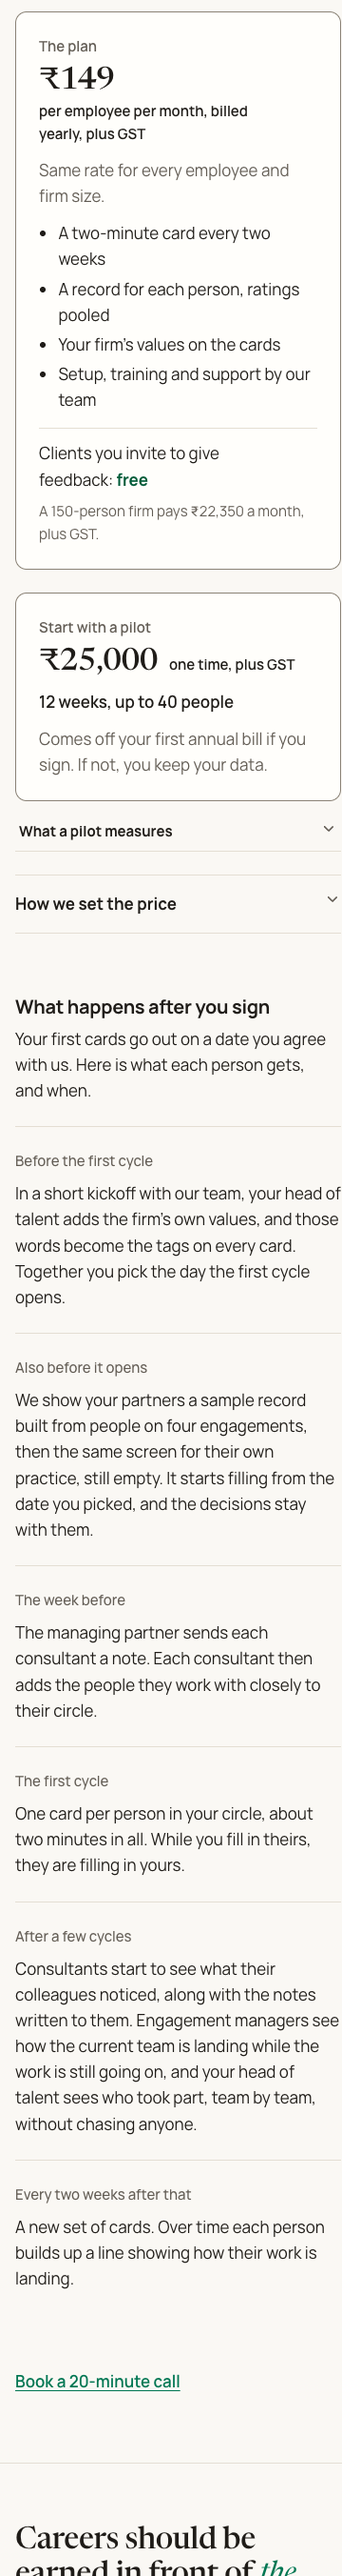
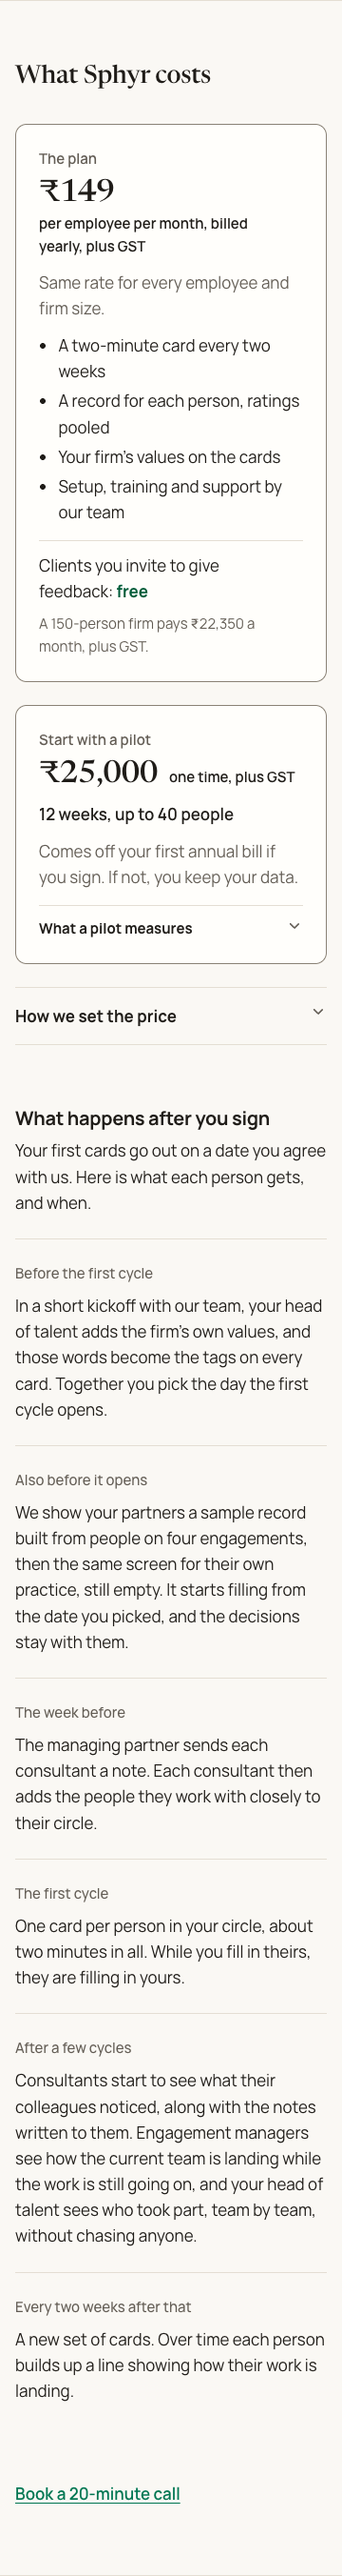
Make plan and pilot cards equal height, scorecard toggle inside pilot card

diff --git a/site/css/home.css b/site/css/home.css
@@ -70,28 +70,31 @@
 .notdo h3, .faq-head { margin-bottom: var(--s-4); }
 .faq-head { margin-top: var(--s-8); }
 
-/* Pricing: two small, calm cards (plan, then pilot), stacked on phones. */
-.price-pair { display: grid; grid-template-columns: 1fr 1fr; gap: var(--s-5); max-width: 880px; margin-top: var(--s-6); align-items: start; }
+/* Pricing: two small, calm cards of equal height (plan, then pilot), stacked on phones. Each card is a flex
+   column; its last block (the free line and example, or the scorecard toggle) sits at the bottom. */
+.price-pair { display: grid; grid-template-columns: 1fr 1fr; gap: var(--s-5); max-width: 880px; margin-top: var(--s-6); align-items: stretch; }
 @media (max-width: 760px) { .price-pair { grid-template-columns: 1fr; } }
-.price-pair .term { padding: var(--s-5); }
+.price-pair .term { display: flex; flex-direction: column; padding: var(--s-5); }
 .price-pair .term p { margin-top: var(--s-3); }
 .term .price { margin-top: var(--s-2); display: flex; flex-wrap: wrap; align-items: baseline; gap: var(--s-1) var(--s-3); }
 .term .amount { font-family: var(--font-display); font-weight: 500; line-height: 1; letter-spacing: -0.02em; font-variant-numeric: tabular-nums; font-size: clamp(2rem, 1.7rem + 1vw, 2.5rem); }
 .term .per { font-size: var(--fs-small); font-weight: 600; max-width: 24ch; }
 .incl { margin: var(--s-3) 0 0; padding-left: 1.2em; }
 .incl li + li { margin-top: var(--s-1); }
-.price-pair p.free-line { margin-top: var(--s-4); padding-top: var(--s-3); border-top: 1px solid var(--border); color: var(--text); }
+.price-pair p.free-line { margin-top: auto; padding-top: var(--s-3); border-top: 1px solid var(--border); color: var(--text); }
+.plan .incl { margin-bottom: var(--s-4); }
 .free-line b { color: var(--on-positive-soft); }
 .price-pair p.example { margin-top: var(--s-2); font-size: var(--fs-small); }
 .price-pair .pilot-facts { font-weight: 600; color: var(--text); }
 
-/* Under the pilot card: the scorecard behind a small closed toggle. */
-.side > * + * { margin-top: var(--s-3); }
-.scorecard { border-top: 0; font-size: var(--fs-small); }
-.scorecard summary { padding: var(--s-2) var(--s-1); }
-.scorecard details > div { padding-inline: var(--s-1); padding-bottom: var(--s-4); }
+/* Inside the pilot card, at its bottom: the scorecard behind a small closed toggle. */
+.scorecard { margin-top: auto; padding-top: var(--s-4); border-top: 0; font-size: var(--fs-small); }
+.scorecard details { border-top: 1px solid var(--border); border-bottom: 0; }
+.scorecard summary { padding: var(--s-3) 0 0; }
+.scorecard details > div { padding-bottom: 0; }
 .scorecard details > div p { margin-top: var(--s-3); }
 .more { margin-top: var(--s-5); }
+.more .incl li + li { margin-top: var(--s-2); }
 
 /* Close: one large paragraph, a few words in the accent green. */
 .close p.manifesto { font-family: var(--font-display); font-weight: 500; font-size: clamp(2rem, 1.2rem + 3vw, 3.5rem); line-height: 1.12; letter-spacing: -0.015em; max-width: 20ch; }

diff --git a/site/index.html b/site/index.html
@@ -326,13 +326,11 @@
           <p class="free-line">Clients you invite to give feedback: <b>free</b></p>
           <p class="example">A 150-person firm pays ₹22,350 a month, plus GST.</p>
         </div>
-        <div class="side">
-          <div class="term pilot">
-            <div class="what">Start with a pilot</div>
-            <div class="price"><span class="amount">₹25,000</span><span class="per">one time, plus GST</span></div>
-            <p class="pilot-facts">12 weeks, up to 40 people</p>
-            <p>Comes off your first annual bill if you sign. If not, you keep your data.</p>
-          </div>
+        <div class="term pilot">
+          <div class="what">Start with a pilot</div>
+          <div class="price"><span class="amount">₹25,000</span><span class="per">one time, plus GST</span></div>
+          <p class="pilot-facts">12 weeks, up to 40 people</p>
+          <p>Comes off your first annual bill if you sign. If not, you keep your data.</p>
           <div class="faq scorecard">
             <details><summary>What a pilot measures<svg class="icon" aria-hidden="true"><use href="assets/icons.svg#i-chevron-down"/></svg></summary><div>
               <ul class="incl">
